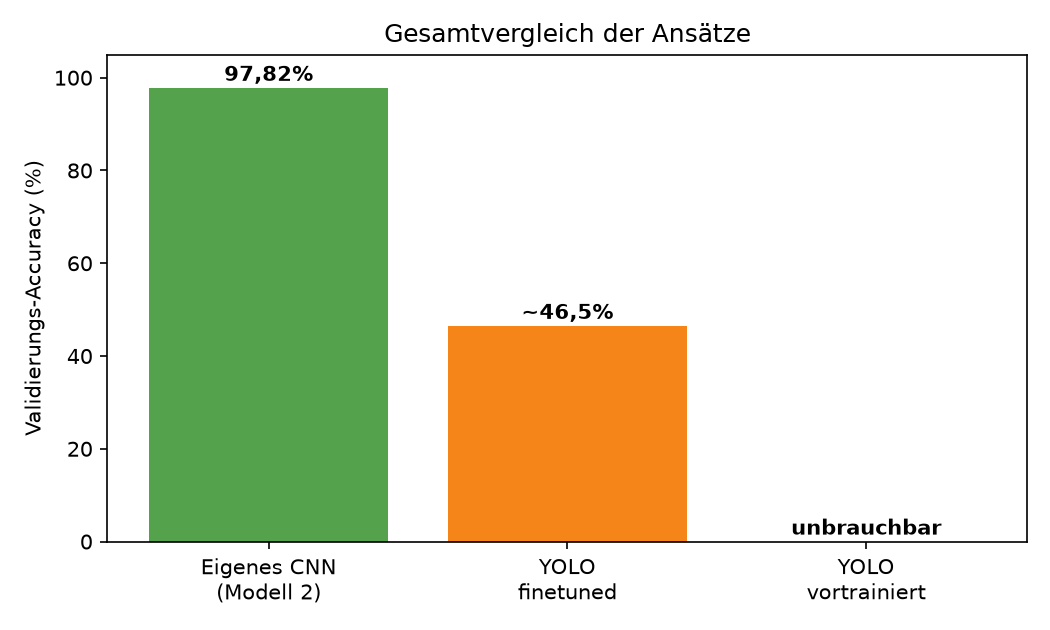
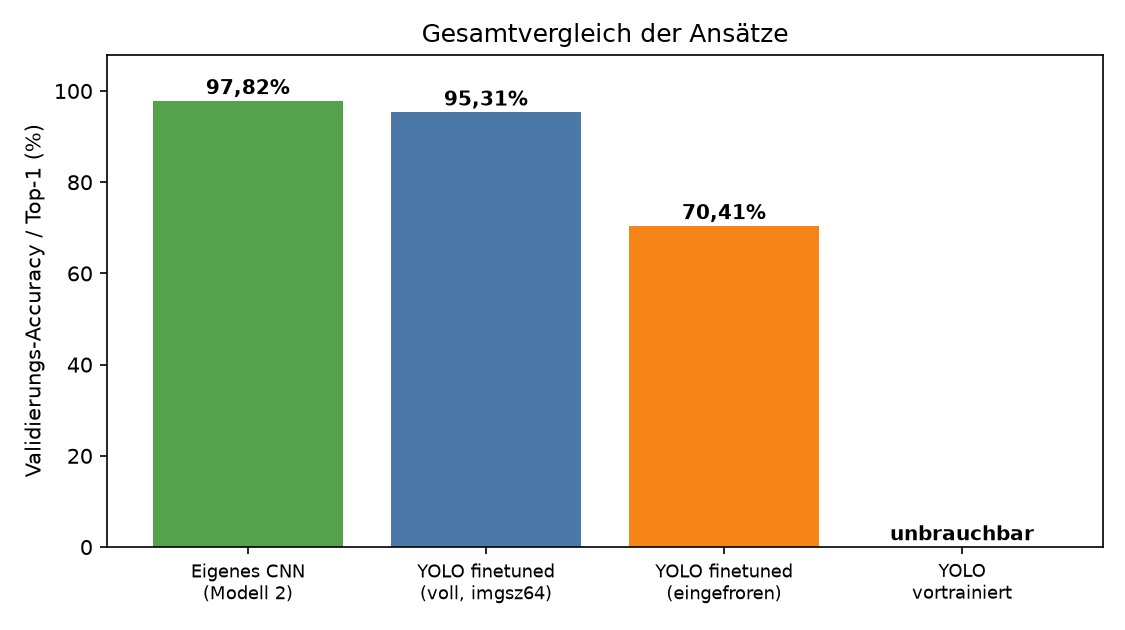
ergänzung der fehlenden testdaten und 95% schwelle yolo daten

Changed region(s): [[0.0, 0.0905, 1.0, 0.9651], [0.3657, 0.0302, 0.7314, 0.0905], [0.0, 0.2111, 0.0305, 0.2413]]

diff --git a/build_pptx.py b/build_pptx.py
@@ -1,0 +1,218 @@
+from pptx import Presentation
+from pptx.util import Inches, Pt, Emu
+from pptx.dml.color import RGBColor
+from pptx.enum.text import PP_ALIGN, MSO_ANCHOR
+from PIL import Image
+
+NAVY  = RGBColor(0x1F,0x38,0x64)
+GRAY  = RGBColor(0x59,0x59,0x59)
+WHITE = RGBColor(0xFF,0xFF,0xFF)
+
+prs = Presentation()
+prs.slide_width  = Inches(13.333)
+prs.slide_height = Inches(7.5)
+SW, SH = prs.slide_width, prs.slide_height
+BLANK = prs.slide_layouts[6]
+
+def slide():
+    return prs.slides.add_slide(BLANK)
+
+def title_bar(s, text):
+    bar = s.shapes.add_shape(1, 0, 0, SW, Inches(1.15))
+    bar.fill.solid(); bar.fill.fore_color.rgb = NAVY
+    bar.line.fill.background()
+    tf = bar.text_frame; tf.margin_left=Inches(0.5); tf.word_wrap=True
+    tf.vertical_anchor = MSO_ANCHOR.MIDDLE
+    p = tf.paragraphs[0]; p.text = text
+    p.font.size = Pt(30); p.font.bold = True; p.font.color.rgb = WHITE
+    return s
+
+def add_bullets(s, items, left=Inches(0.6), top=Inches(1.45),
+                width=Inches(12.1), height=Inches(5.7), base=18):
+    tb = s.shapes.add_textbox(left, top, width, height)
+    tf = tb.text_frame; tf.word_wrap = True
+    first = True
+    for lvl, text, *opt in items:
+        p = tf.paragraphs[0] if first else tf.add_paragraph()
+        first = False
+        p.level = lvl
+        run = p.add_run(); run.text = ("• " if lvl==0 else "– ") + text
+        run.font.size = Pt(base - lvl*2)
+        run.font.color.rgb = NAVY if lvl==0 else GRAY
+        if opt and opt[0]=="b": run.font.bold = True
+        p.space_after = Pt(6)
+    return tb
+
+def add_image_fit(s, path, left, top, max_w, max_h):
+    iw, ih = Image.open(path).size
+    ratio = iw/ih
+    w = max_w; h = Emu(int(int(w)/ratio))
+    if int(h) > int(max_h):
+        h = max_h; w = Emu(int(int(h)*ratio))
+    cx = left + Emu(int((int(max_w) - int(w))/2))
+    cy = top  + Emu(int((int(max_h) - int(h))/2))
+    s.shapes.add_picture(path, cx, cy, width=w, height=h)
+
+def caption(s, text, top):
+    tb = s.shapes.add_textbox(Inches(0.6), top, Inches(12.1), Inches(0.4))
+    p = tb.text_frame.paragraphs[0]; p.text = text
+    p.font.size = Pt(12); p.font.italic = True; p.font.color.rgb = GRAY
+    p.alignment = PP_ALIGN.CENTER
+
+A = "assets"
+
+# ---------- 1: Title ----------
+s = slide()
+bg = s.shapes.add_shape(1,0,0,SW,SH); bg.fill.solid(); bg.fill.fore_color.rgb=NAVY; bg.line.fill.background()
+tb = s.shapes.add_textbox(Inches(0.9), Inches(2.4), Inches(11.5), Inches(2.6))
+tf = tb.text_frame; tf.word_wrap=True
+p=tf.paragraphs[0]; p.text="Klassifikation deutscher Verkehrsschilder"
+p.font.size=Pt(40); p.font.bold=True; p.font.color.rgb=WHITE
+p2=tf.add_paragraph(); p2.text="mit neuronalen Netzen (GTSRB-Datensatz)"
+p2.font.size=Pt(24); p2.font.color.rgb=RGBColor(0xC9,0xD3,0xE6)
+p3=tf.add_paragraph(); p3.text=""
+p4=tf.add_paragraph(); p4.text="KI-Praktikum 2  ·  Name(n)  ·  18.06.2026"
+p4.font.size=Pt(15); p4.font.color.rgb=RGBColor(0x9F,0xB0,0xD0)
+
+# ---------- 2: Aufgabe & Ziel ----------
+s=title_bar(slide(),"Aufgabenstellung & Ziel")
+add_bullets(s,[
+ (0,"Ziel: aus einem Bild das Verkehrsschild klassifizieren (43 Klassen)","b"),
+ (0,"Drei Teilaufgaben:"),
+ (1,"Eigene CNN-Modelle entwickeln (mind. 3 Architekturen)"),
+ (1,"Vortrainiertes YOLO-Modell anwenden"),
+ (1,"YOLO per Finetuning an GTSRB anpassen"),
+ (0,"Vorgaben:"),
+ (1,"Jedes eigene Modell ≥ 90 % Validierungs-Accuracy"),
+ (1,"Bestes Modell anhand der Konfusionsmatrix auswählen & begründen"),
+])
+
+# ---------- 3: Datensatz ----------
+s=title_bar(slide(),"Der Datensatz (GTSRB)")
+add_bullets(s,[
+ (0,"~50.000 Bilder, 43 Klassen von Verkehrsschildern","b"),
+ (0,"Einheitlich auf 32 × 32 Pixel (RGB) skaliert"),
+ (0,"34.799 Trainings- / 4.410 Validierungs- / 12.630 Testbilder"),
+ (0,"Unbalanciert: seltene Klassen nur ~30–60 Bilder, häufige > 200","b"),
+ (0,"Vorverarbeitung: Pixel auf [0,1] normiert, Daten gemischt (shuffle)"),
+])
+
+# ---------- 4: Methodik ----------
+s=title_bar(slide(),"Methodik")
+add_bullets(s,[
+ (0,"Framework: TensorFlow / Keras (Sequential API)","b"),
+ (0,"Optimizer: Adam  ·  Loss: sparse categorical crossentropy  ·  Batch: 64"),
+ (0,"EarlyStopping (patience = 3, restore_best_weights) gegen Overfitting","b"),
+ (0,"Bewertung: Validierungs-Accuracy + Konfusionsmatrix"),
+])
+
+# ---------- 5: 3 Architekturen ----------
+s=title_bar(slide(),"Eigene Modelle: 3 Architekturen")
+add_bullets(s,[
+ (0,"Modell 1 – Basis-CNN","b"),
+ (1,"2 Faltungsblöcke (32→64), MaxPool + Dropout, Dense(256) — einfache Referenz"),
+ (0,"Modell 2 – Tiefes CNN + Batch Normalization (VGG-artig)","b"),
+ (1,"3 Blöcke à 2 Conv (32→64→128), BatchNorm — höchste Kapazität"),
+ (0,"Modell 3 – Schlankes, LeNet-inspiriertes CNN","b"),
+ (1,"2 Conv (5×5, 16→32), AveragePooling, Dense(120→84) — sehr wenige Parameter"),
+ (0,"→ bewusst drei verschiedene Designphilosophien"),
+])
+
+# ---------- 6: Ergebnisse eigene Modelle ----------
+s=title_bar(slide(),"Ergebnisse der eigenen Modelle (Validierung)")
+add_bullets(s,[
+ (0,"Modell 1 (Basis-CNN): 96,94 %","b"),
+ (0,"Modell 2 (BatchNorm): 97,82 %  ⭐ bestes Modell","b"),
+ (0,"Modell 3 (LeNet): 93,47 %","b"),
+ (0,"Alle Modelle ≥ 90 % erreicht ✓"),
+ (1,"Modell 3 trainiert ~10× schneller, aber ~4 Punkte schwächer"),
+], left=Inches(0.6), top=Inches(1.5), width=Inches(6.2), height=Inches(5.5), base=18)
+add_image_fit(s, f"{A}/acc_models.png", Inches(6.9), Inches(1.5), Inches(6.1), Inches(5.4))
+
+# ---------- 7: Modellvergleich CM ----------
+s=title_bar(slide(),"Modellvergleich per Konfusionsmatrix")
+add_image_fit(s, f"{A}/cm_compare.png", Inches(0.4), Inches(1.55), Inches(12.5), Inches(4.5))
+caption(s,"Konfusionsmatrizen (Validierung) — bestes Modell: Modell 2 (BatchNorm) mit sauberster Diagonale", Inches(6.25))
+
+# ---------- 8: CM-Analyse ----------
+s=title_bar(slide(),"Analyse der Konfusionsmatrix (bestes Modell)")
+add_bullets(s,[
+ (0,"Häufigste Verwechslungen (echt → vorhergesagt):","b"),
+ (1,"Verbot LKW>3,5t → Ende Überholverbot: 25×"),
+ (1,"Tempo 120 → Tempo 100: 13×  (ähnliche Ziffern)"),
+ (1,"Verengung rechts / Fußgänger → Gefahr allgemein"),
+ (0,"Schwächste Klassen: seltene Schilder","b"),
+ (1,"Verbot LKW>3,5t 58 %, Verengung rechts 70 %, Fußgänger 77 %"),
+ (0,"Zuverlässig (100 %): Vorfahrtstraße, Vorfahrt gewähren, Tempo 80/100","b"),
+ (0,"Höchste Accuracy = überzeugendste Matrix? Ja, Modell 2","b"),
+], left=Inches(0.6), top=Inches(1.45), width=Inches(7.0), height=Inches(5.7), base=16)
+add_image_fit(s, f"{A}/cm_best.png", Inches(7.7), Inches(1.5), Inches(5.4), Inches(5.4))
+
+# ---------- 9: Finales Modell auf Testdaten (ECHTE DATEN) ----------
+s=title_bar(slide(),"Finales Modell auf Testdaten (Modell 2)")
+add_bullets(s,[
+ (0,"Test-Accuracy: 97,65 % auf 12.630 Testbildern","b"),
+ (0,"Validierung war 97,82 %  →  nur −0,17 Punkte","b"),
+ (1,"sehr gute Generalisierung, praktisch kein Overfitting"),
+ (0,"Häufigste Verwechslungen (Test):"),
+ (1,"Doppelkurve → Vorfahrtstraße, Tempo 120 → 60, Einfahrt verboten → Vorfahrtstraße"),
+ (0,"Schwächste Klassen: Fußgänger (50 %), Doppelkurve (64 %)"),
+ (1,"wieder seltene Klassen — gleiches Muster wie bei der Validierung"),
+], left=Inches(0.6), top=Inches(1.45), width=Inches(7.0), height=Inches(5.7), base=16)
+add_image_fit(s, f"{A}/cm_test.png", Inches(7.7), Inches(1.5), Inches(5.4), Inches(5.4))
+
+# ---------- 10: YOLO pretrained ----------
+s=title_bar(slide(),"Vortrainiertes YOLO (ohne Anpassung)")
+add_bullets(s,[
+ (0,"Modell yolo26n-cls.pt (Ultralytics, auf ImageNet vortrainiert)","b"),
+ (0,"Alle 4.410 Validierungsbilder klassifiziert"),
+ (0,"Top-erkannte Klassen:","b"),
+ (1,"loupe (1227), punching_bag (279), digital_clock (243), milk_can (218) …"),
+ (0,"Fazit: völlig ungeeignet — kennt keine Verkehrsschilder,","b"),
+ (1,"ordnet nur ImageNet-Alltagsobjekte zu"),
+])
+
+# ---------- 11: YOLO Finetuning (BEIDE VARIANTEN) ----------
+s=title_bar(slide(),"YOLO mit Finetuning: eingefroren vs. voll")
+add_bullets(s,[
+ (0,"Auflösung von imgsz 32 auf 64 erhöht — größter Hebel","b"),
+ (1,"vorher (imgsz 32): nur ~46 % Top-1"),
+ (0,"Variante A – Backbone eingefroren (aufgaben-konform):","b"),
+ (1,"Top-1 = 70,41 %  —  Einfrieren begrenzt die Genauigkeit"),
+ (0,"Variante B – volles Finetuning (Backbone mit-trainiert):","b"),
+ (1,"Top-1 = 95,31 %  ·  Top-5 = 99,71 %  ✓ ≥ 95 % erreicht"),
+ (0,"Training auf Apple-GPU (MPS), je 30 Epochen, EarlyStopping"),
+], left=Inches(0.6), top=Inches(1.45), width=Inches(6.6), height=Inches(5.7), base=16)
+add_image_fit(s, f"{A}/yolo_compare.png", Inches(7.3), Inches(1.6), Inches(5.8), Inches(5.2))
+
+# ---------- 12: YOLO Konfusionsmatrix (NEU) ----------
+s=title_bar(slide(),"YOLO (voll finetuned) – Konfusionsmatrix")
+add_image_fit(s, f"{A}/yolo_cm.png", Inches(0.4), Inches(1.5), Inches(12.5), Inches(5.2))
+caption(s,"Normalisierte Konfusionsmatrix des voll finetunten YOLO-Modells (Validierung, 95,31 % Top-1)", Inches(6.85))
+
+# ---------- 13: Gesamtvergleich ----------
+s=title_bar(slide(),"Gesamtvergleich der Ansätze")
+add_bullets(s,[
+ (0,"Eigenes CNN (Modell 2): 97,82 % Val / 97,65 % Test","b"),
+ (0,"YOLO finetuned (voll): 95,31 %","b"),
+ (0,"YOLO finetuned (eingefroren): 70,41 %","b"),
+ (0,"YOLO vortrainiert: unbrauchbar","b"),
+ (0,"Eigenes CNN bleibt vorn — volles YOLO-Finetuning ist aber konkurrenzfähig"),
+], left=Inches(0.6), top=Inches(1.5), width=Inches(6.2), height=Inches(5.5), base=18)
+add_image_fit(s, f"{A}/acc_overall.png", Inches(6.9), Inches(1.5), Inches(6.1), Inches(5.4))
+
+# ---------- 14: Fazit ----------
+s=title_bar(slide(),"Fazit & Ausblick")
+add_bullets(s,[
+ (0,"3 eigene CNNs trainiert — alle > 90 %, bestes 97,82 % (BatchNorm)","b"),
+ (0,"Finales Modell auf Testdaten bestätigt: 97,65 %, kein Overfitting","b"),
+ (0,"Vortrainiertes YOLO ohne Anpassung wertlos für Spezialdomäne","b"),
+ (0,"YOLO-Finetuning: Auflösung & volles Training entscheidend","b"),
+ (1,"eingefroren ~70 %, voll finetuned 95,31 %"),
+ (0,"Schlüsselkonzepte: Transfer Learning, Layer einfrieren, BatchNorm,"),
+ (1,"Datenungleichgewicht, Konfusionsmatrix-Analyse"),
+])
+
+out="KI_Praktikum2_Praesentation.pptx"
+prs.save(out)
+print("SAVED:", out, "| Folien:", len(prs.slides._sldIdLst))